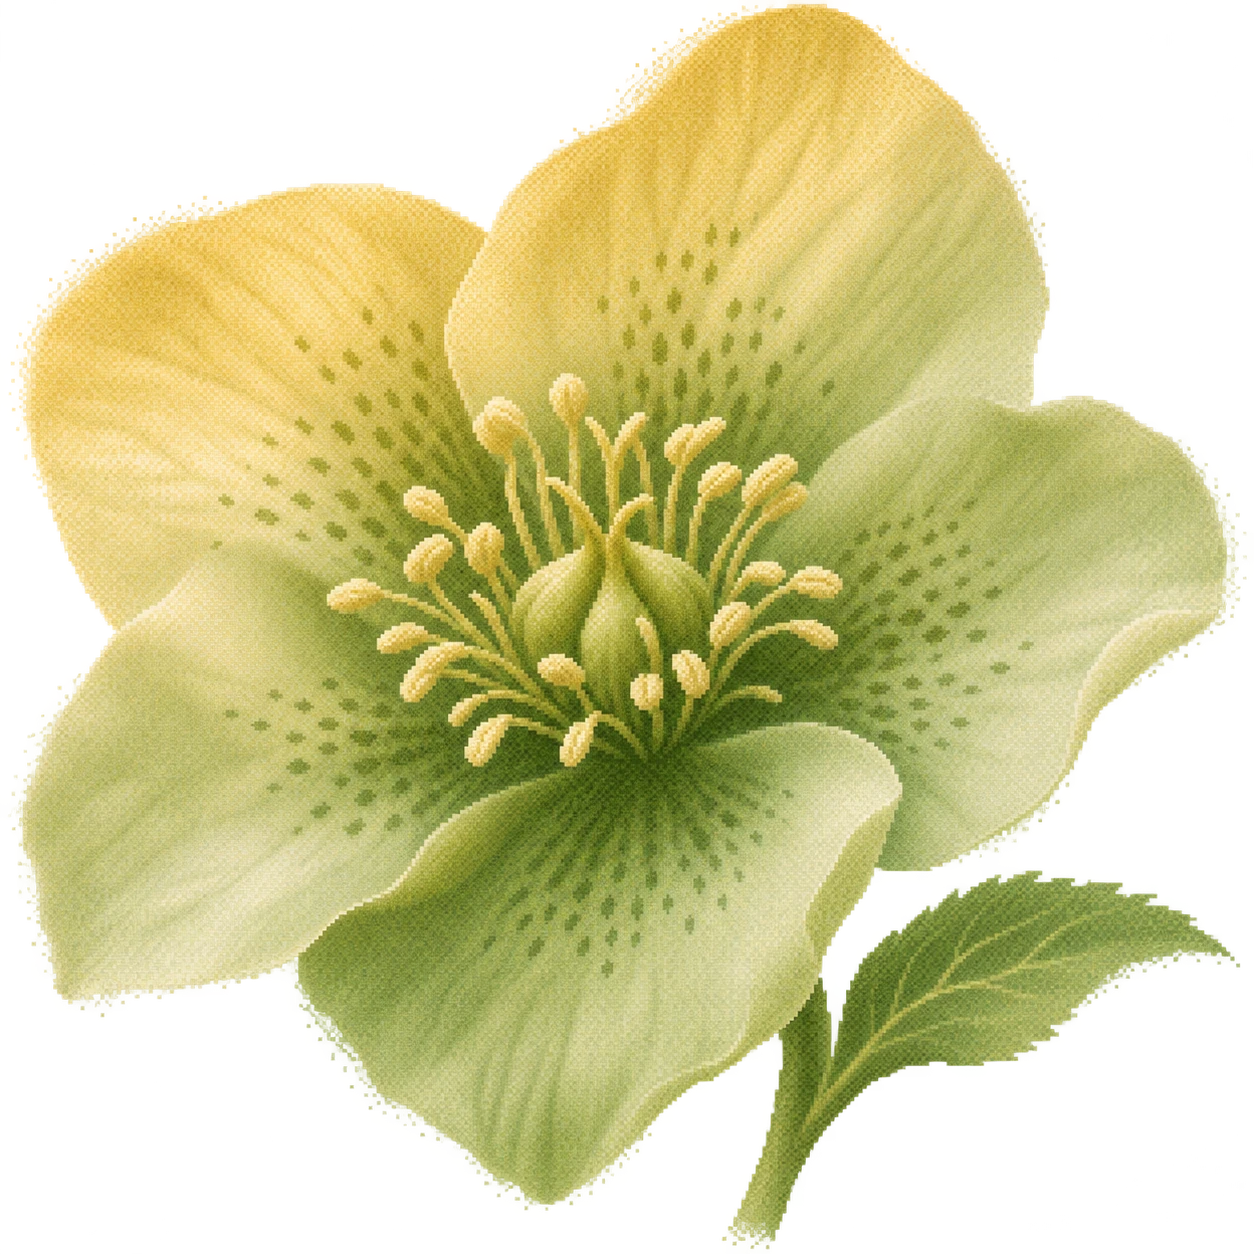
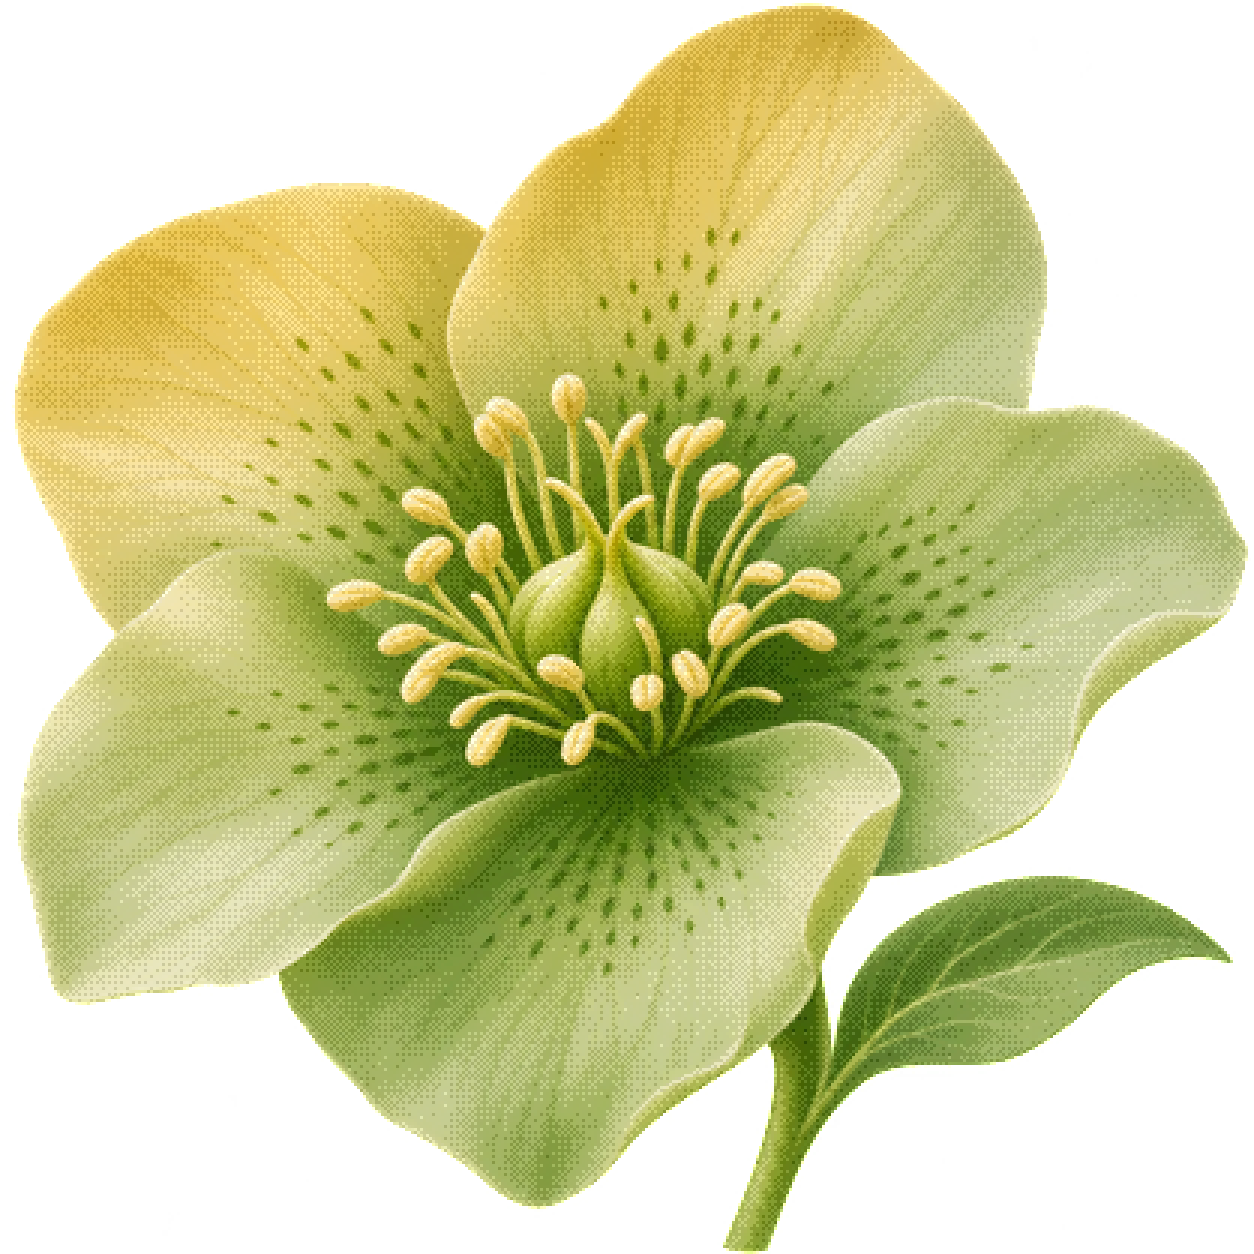
design: checkpoint dithered still hero and refill walkthrough
Entire-Checkpoint: 01M813VSPHV3WCDZ79AHHRTH1N

Changed region(s): [[0.0, 0.0, 0.9952, 1.0]]

diff --git a/components/landing/RefillStory.tsx b/components/landing/RefillStory.tsx
@@ -117,15 +117,18 @@ function ControlScene() {
   );
 }
 
-function Beat({ id, heading, visual, children }: {
+function Beat({ id, step, heading, visual, children }: {
   id?: string;
+  step: number;
   heading: ReactNode;
   visual: ReactNode;
   children: ReactNode;
 }) {
   return (
     <div id={id} data-story-beat="" className="landing-beat">
+      <span className="landing-beat-marker" data-story-marker="" aria-hidden="true" />
       <div className="landing-beat-copy">
+        <span className="landing-step-label">Step {step} of 6</span>
         {heading}
         {children}
       </div>
@@ -143,40 +146,47 @@ export function RefillStory({ safetyHref }: { safetyHref: string }) {
   const control = <ControlScene />;
 
   return (
-    <div className="landing-story-band">
+    <section id="acts" className="landing-story-band" aria-labelledby="refill-story-title">
+      <header className="landing-container landing-story-intro">
+        <p>Follow one refill</p>
+        <h2 id="refill-story-title">
+          <span>A simpler refill for patients.</span>{" "}
+          <span>A clear next step for pharmacists.</span>
+        </h2>
+      </header>
       <ScrollStory visuals={[ring, verify, refill, review, speech, control]}>
-        <section id="acts" aria-labelledby="call-title">
-          <Beat heading={<h2 id="call-title">A call before you run out.</h2>} visual={ring}>
+        <section aria-labelledby="call-title">
+          <Beat step={1} heading={<h3 id="call-title">A call before you run out.</h3>} visual={ring}>
             <p>The pharmacy calls when it’s time to check in about a refill.</p>
           </Beat>
-          <Beat heading={<h3>First, confirm who’s on the line.</h3>} visual={verify}>
+          <Beat step={2} heading={<h4>First, confirm who’s on the line.</h4>} visual={verify}>
             <p>Aegis texts a verification code and confirms the patient’s identity before discussing a prescription.</p>
           </Beat>
-          <Beat heading={<h3>Check in about the refill.</h3>} visual={refill}>
+          <Beat step={3} heading={<h4>Check in about the refill.</h4>} visual={refill}>
             <p>Aegis asks about the refill and how the patient has been feeling.</p>
           </Beat>
         </section>
 
         <section aria-labelledby="review-title">
-          <Beat id="pharmacist" heading={<h2 id="review-title">A pharmacist takes it from here.</h2>} visual={review}>
+          <Beat id="pharmacist" step={4} heading={<h3 id="review-title">A pharmacist takes it from here.</h3>} visual={review}>
             <p>When the patient mentions a side effect, the pharmacist gets the note and the reason for review.</p>
           </Beat>
         </section>
 
         <section aria-labelledby="speech-title">
-          <Beat id="redacted" heading={<h2 id="speech-title">Things a fooled AI tried to say.</h2>} visual={speech}>
+          <Beat id="redacted" step={5} heading={<h3 id="speech-title">Things a fooled AI tried to say.</h3>} visual={speech}>
             <p>On a test call, the speech guard stopped the agent from saying a refill was already approved.</p>
           </Beat>
         </section>
 
         <section aria-labelledby="safety-title">
-          <Beat id="attacks" heading={<><span id="buttons" className="landing-anchor" /><h2 id="safety-title">We test the rules the calls run on.</h2></>} visual={control}>
+          <Beat id="attacks" step={6} heading={<><span id="buttons" className="landing-anchor" /><h3 id="safety-title">We test the rules the calls run on.</h3></>} visual={control}>
             <p>Routine scenarios and adversarial tests run through the same call driver.</p>
             <p>The control layer checks every one of the agent’s 12 possible actions. The speech guard checks every spoken line.</p>
             <Link href={safetyHref} className="landing-text-link">Explore the Safety suite <span aria-hidden="true">↗</span></Link>
           </Beat>
         </section>
       </ScrollStory>
-    </div>
+    </section>
   );
 }

diff --git a/components/landing/landing.css b/components/landing/landing.css
@@ -173,28 +173,112 @@
 }
 
 .landing-story-band {
+  scroll-margin-block-start: var(--header-height);
   border-block: 1px solid var(--rg-line);
   background: var(--rg-surface);
 }
 
+.landing-story-intro {
+  padding-top: clamp(3.5rem, 8vw, 7rem);
+}
+
+.landing-story-intro p {
+  margin-bottom: 1rem;
+  color: var(--rg-accent-ink);
+  font-size: clamp(0.9375rem, 1.5vw, 1.125rem);
+  font-weight: 600;
+}
+
+.landing-story-intro h2 {
+  max-width: 23ch;
+  font-size: clamp(2.625rem, 5.5vw, 4.5rem);
+  text-wrap: balance;
+}
+
+@media (min-width: 768px) {
+  .landing-story-intro h2 span {
+    display: block;
+  }
+}
+
 .landing-story {
-  padding-block: clamp(3rem, 7vw, 6rem);
+  padding-block: clamp(2rem, 4vw, 4rem) clamp(3rem, 7vw, 6rem);
 }
 
 .landing-beat {
+  --rail-offset: 0.375rem;
+  --marker-top: 2.0625rem;
+  --rail-stop: clamp(0px, var(--rail-fill, 0px), 100%);
+  --beat-padding: 1.5rem;
+
   position: relative;
   display: grid;
   align-items: center;
   gap: 1.5rem;
   padding-block: 1.5rem 3.25rem;
+  padding-inline-start: var(--beat-padding);
+}
+
+.landing-beat::before,
+.landing-beat-marker {
+  position: absolute;
+  inset-inline-start: var(--rail-offset);
+  translate: -50% 0;
+  pointer-events: none;
+}
+
+.landing-beat::before {
+  inset-block: 0;
+  width: 1px;
+  background: linear-gradient(
+    to bottom,
+    var(--rg-accent) var(--rail-stop),
+    var(--rg-line-strong) var(--rail-stop)
+  );
+  content: "";
+}
+
+.landing-steps > section:first-child > .landing-beat:first-child::before {
+  clip-path: inset(var(--marker-top) 0 0);
+}
+
+.landing-steps > section:last-child > .landing-beat:last-child::before {
+  clip-path: inset(0 0 calc(100% - var(--marker-top)));
+}
+
+.landing-beat-marker {
+  inset-block-start: var(--marker-top);
+  width: 0.625rem;
+  aspect-ratio: 1;
+  translate: -50% -50%;
+  border: 1px solid var(--rg-line-strong);
+  border-radius: 50%;
+  background: var(--rg-surface);
+}
+
+.landing-beat[data-story-position="passed"] .landing-beat-marker,
+.landing-beat[data-story-position="current"] .landing-beat-marker {
+  border-color: var(--rg-accent);
+  background: var(--rg-accent);
+}
+
+.landing-beat[data-story-position="current"] .landing-beat-marker {
+  box-shadow: 0 0 0 4px var(--rg-accent-soft);
 }
 
 .landing-steps > section:last-child .landing-beat {
   padding-bottom: 0;
 }
 
-.landing-beat h2,
-.landing-beat h3,
+.landing-step-label {
+  display: block;
+  margin-bottom: 0.55rem;
+  color: var(--rg-ink-3);
+  font-size: 0.8125rem;
+  font-weight: 600;
+  font-variant-numeric: tabular-nums;
+}
+
 .landing-stats h2,
 .landing-closing h2 {
   font-size: clamp(2.125rem, 4.3vw, 3.5rem);
@@ -202,8 +286,17 @@
 }
 
 .landing-beat h3 {
+  font: 400 clamp(2.125rem, 4.3vw, 3.5rem)/0.98 var(--font-display);
+}
+
+.landing-beat h4 {
   font: 400 clamp(2rem, 3.7vw, 3rem)/1.04 var(--font-display);
+}
+
+.landing-beat h3,
+.landing-beat h4 {
   letter-spacing: -0.025em;
+  text-wrap: balance;
 }
 
 .landing-beat-copy p {
@@ -620,6 +713,10 @@
   }
 
   .landing-story[data-sticky-ready] .landing-beat {
+    --rail-offset: 0.4375rem;
+    --marker-top: 50%;
+    --beat-padding: 2.125rem;
+
     min-height: clamp(21rem, 48svh, 31rem);
     padding-block: 2.5rem;
   }

diff --git a/components/landing/ScrollStory.tsx b/components/landing/ScrollStory.tsx
@@ -12,18 +12,35 @@ export function ScrollStory({ children, visuals }: { children: ReactNode; visual
     const element = story.current;
     if (!element) return;
 
-    const beats = Array.from(element.querySelectorAll("[data-story-beat]"));
+    const beats = Array.from(element.querySelectorAll<HTMLElement>("[data-story-beat]"));
+    const markers = Array.from(element.querySelectorAll("[data-story-marker]"));
     const media = window.matchMedia(STICKY_MEDIA);
     let frame = 0;
+    let activeIndex = -1;
 
     function sync() {
       cancelAnimationFrame(frame);
-      if (!media.matches) return;
 
       frame = requestAnimationFrame(() => {
         const midpoint = window.innerHeight / 2;
-        const index = beats.findLastIndex((beat) => beat.getBoundingClientRect().top <= midpoint);
-        setActive(Math.max(0, index));
+        const beatTops = beats.map((beat) => beat.getBoundingClientRect().top);
+        const index = Math.max(0, markers.findLastIndex((marker) => {
+          const dot = marker.getBoundingClientRect();
+          return dot.top + dot.height / 2 <= midpoint;
+        }));
+
+        // Every segment fills to the same viewport position, including between markers.
+        beats.forEach((beat, position) => {
+          beat.style.setProperty("--rail-fill", `${midpoint - beatTops[position]}px`);
+          if (index !== activeIndex) {
+            beat.setAttribute("data-story-position", position < index ? "passed" : position === index ? "current" : "ahead");
+          }
+        });
+
+        if (index !== activeIndex) {
+          activeIndex = index;
+          setActive(index);
+        }
       });
     }
 
